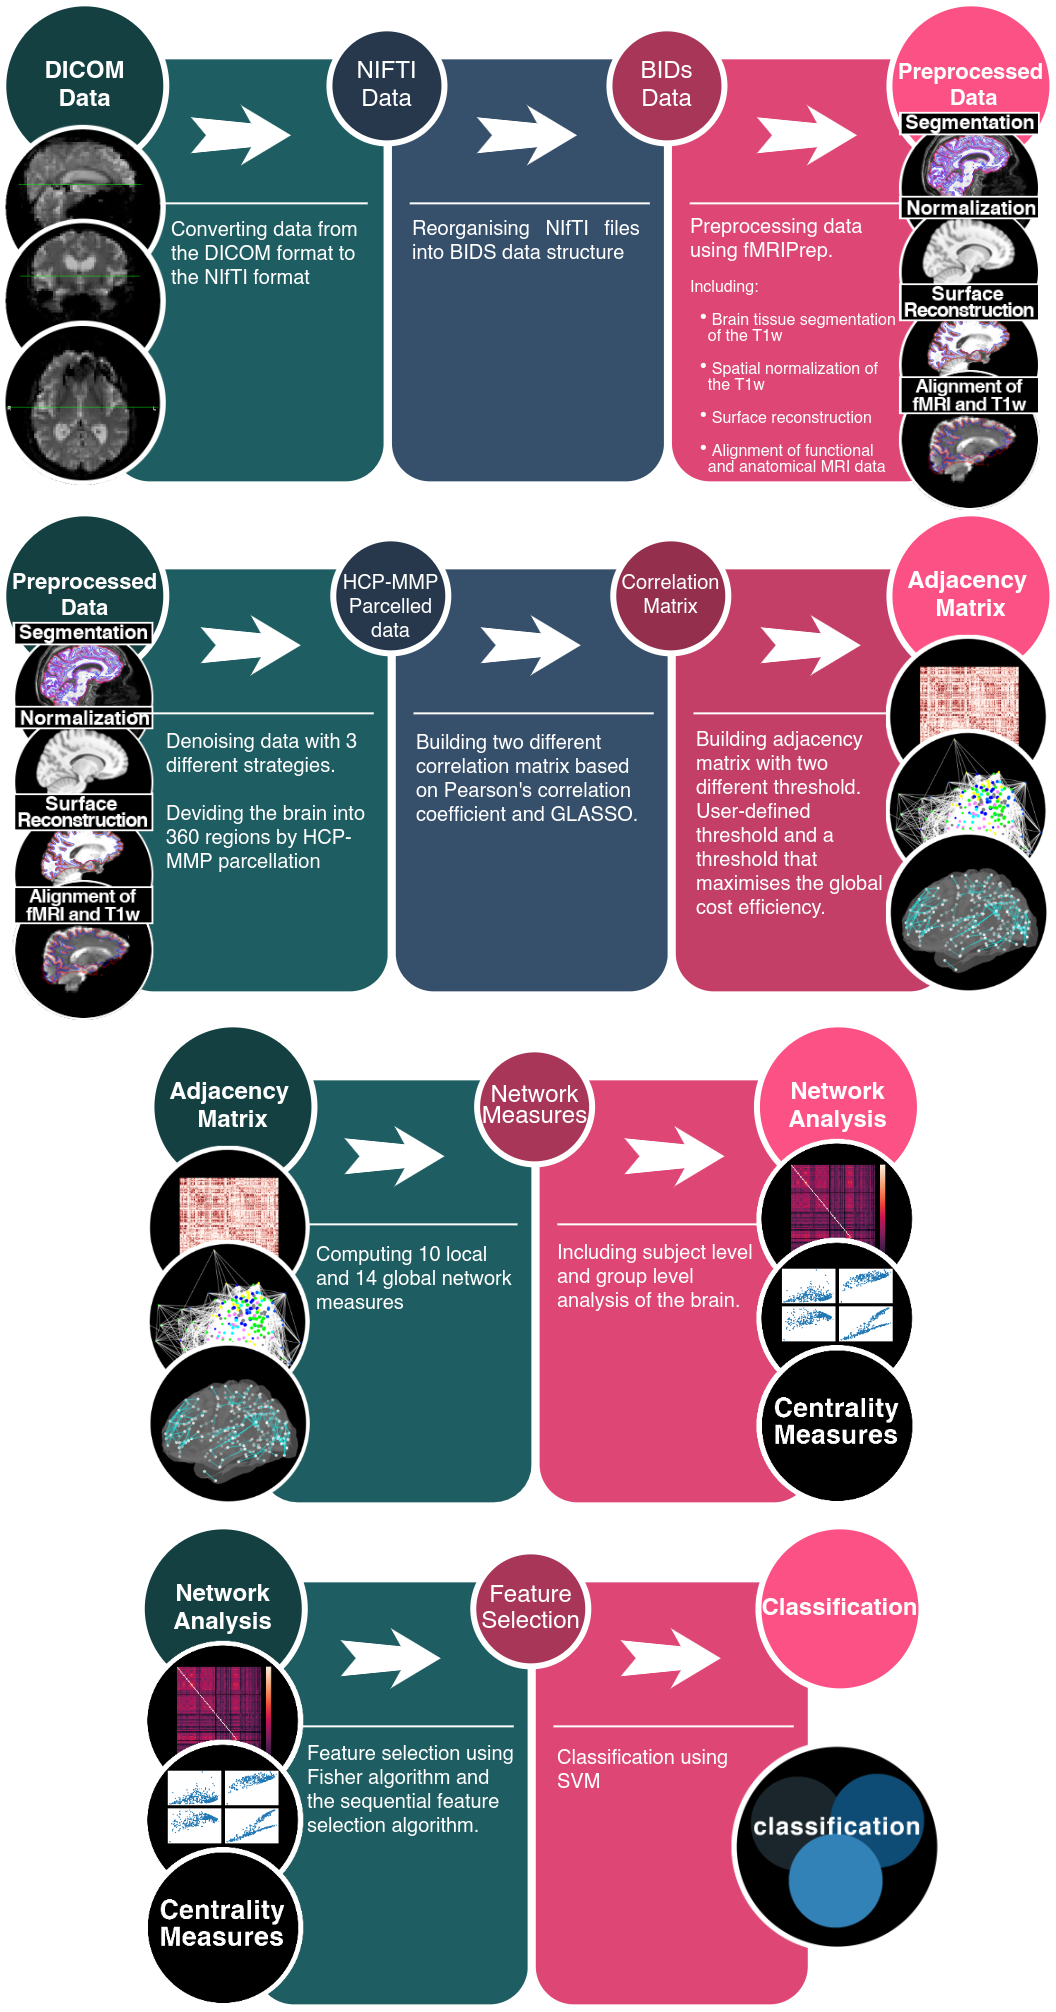
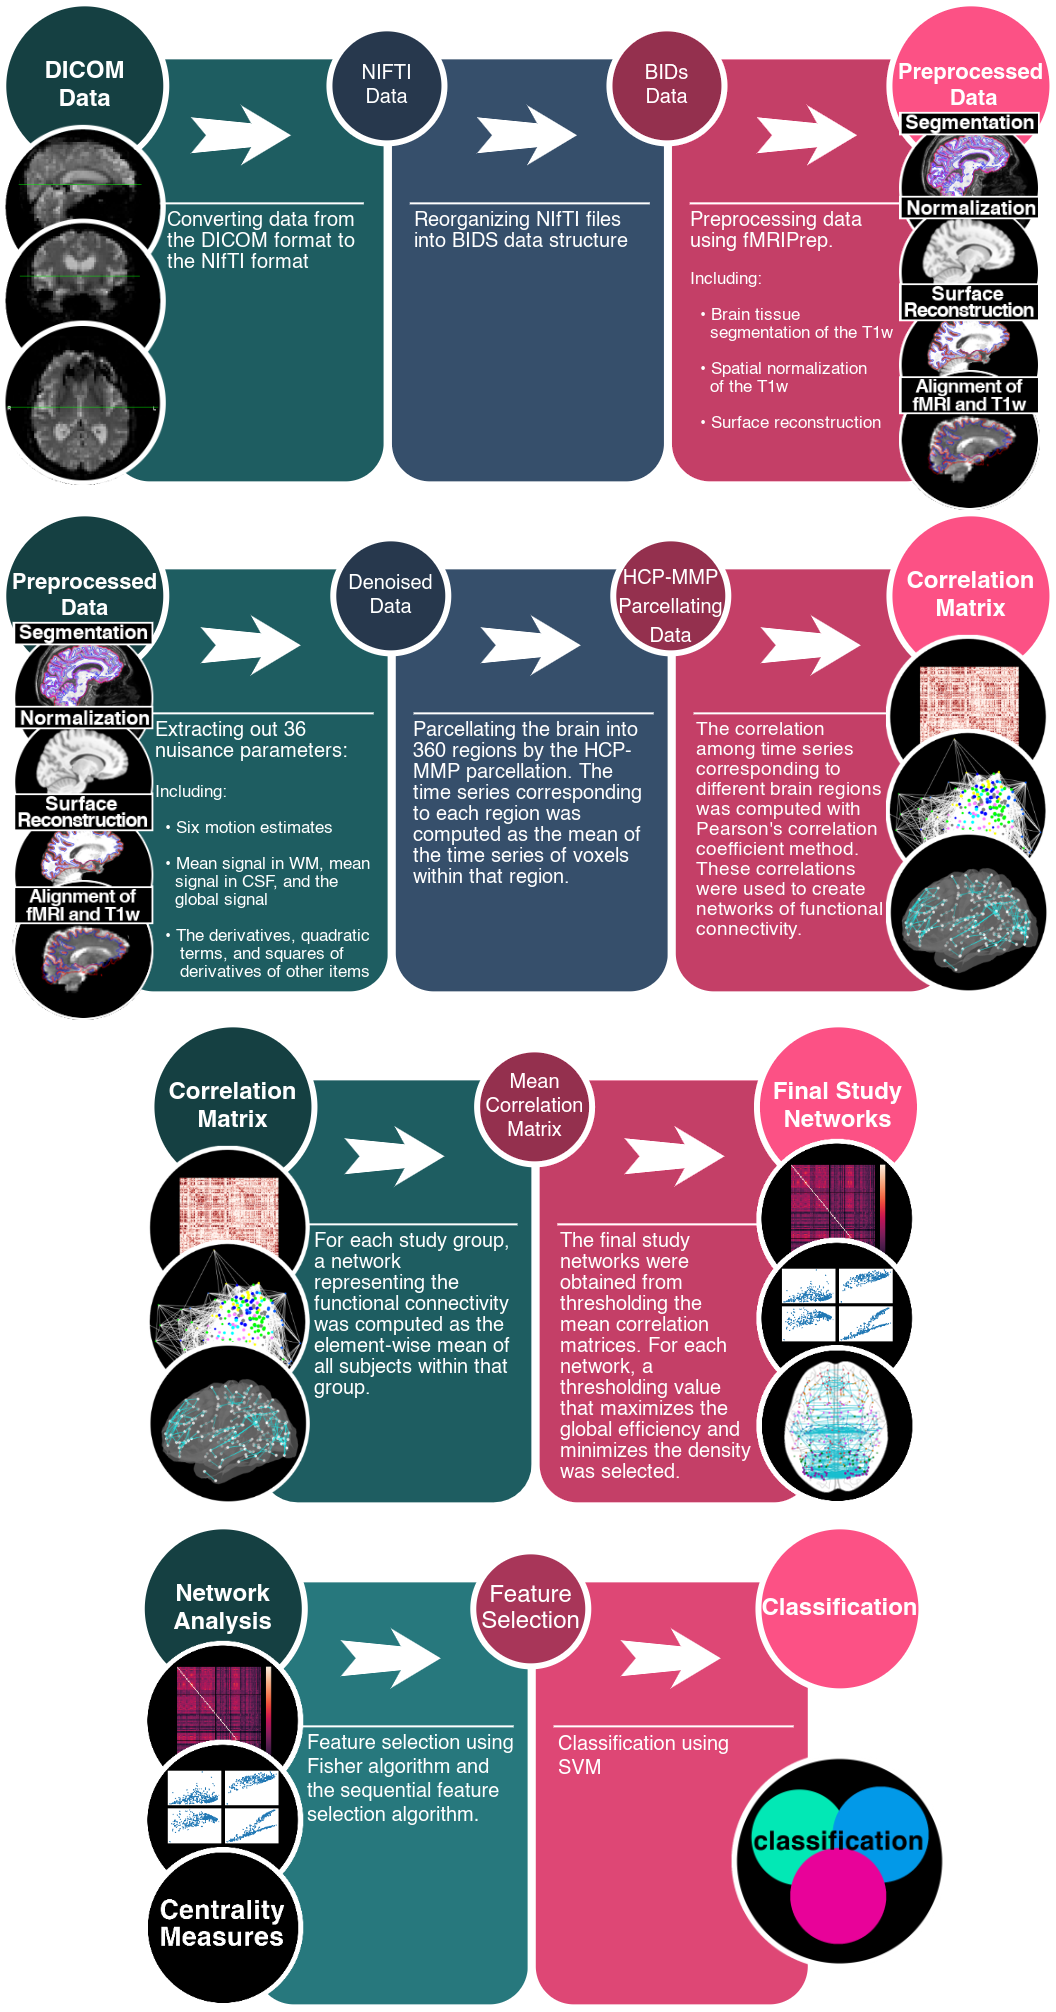
projects

diff --git a/_projects/brain_network.html b/_projects/brain_network.html
@@ -18,30 +18,27 @@ authors: Alireza Fathian
 <body>
 
 <div class="left">
-
-<div align="right"><a href="https://github.com/Alirezafathian/fmriprediction" target="_blank">[Source Code]</a></div>
 <b>Classification of Alzheimer’s disease, mild cognitive impairment, and cognitively normal patients based on the rs-fMRI data</b><br>
 <br><br>
-In this study, we are exploring the effects of Alzheimer’s disease (AD), early mild cognitive impairment (EMCI), and late mild cognitive impairment (LMCI) on functional brain connectivity. We are developing a machine learning model that enables us to classify patients with these disorders. Our goal is to develop a reliable method for diagnosing Alzheimer's disease based on fMRI data.<br>
-<br>
+In this study, we are exploring the changes in the functional brain connectivity of Alzheimer's disease (AD), early mild cognitive impairment (EMCI), and late mild cognitive impairment (LMCI). This research project has two main goals: (1) To analyze the relationship between the trend of deterioration in AD progression and the changes in the functional network topology related to the AD continuum. (2) To use the results from the complex network analysis to classify patients with these disorders and develop a reliable method for early diagnosing Alzheimer's disease based on fMRI data.
+<br><br>
 <b>Data</b><br>
 The rs-fMRI and T1w images of 96 subjects (24 subjects for each group of AD, EMCI, LMCI, and CN ) from <a href="http://adni.loni.usc.edu/" target="_blank">ADNI database</a> are analyzing in this study.<br>
 <br>
 <b>Methods</b><br>
-We are developing a general tool to perform classification and also network analysis on any given dataset including rs-fMRI and T1w images of subjects that we want to classify.
-The general pipeline of this study is shown in the figure below.
-<div class="mobileHide">
+We are developing a general tool to perform network analysis and also classification on any given dataset of rs-fMRI and T1w images. The general pipeline of this study is shown in the figure below.
+<!-- <div class="mobileHide">
 <iframe src="/ref/projects/brain_network/pipeline/pipeline_with_links.html" style="width:100%; height:1000px;" scrolling="yes" seamless></iframe>
 </div>
 <div class="mobileShow">
 <img src="/ref/projects/brain_network/pipeline/pipeline.png" alt="pipeline">
-</div>
-
+</div>-->
+<img src="/ref/projects/brain_network/pipeline/pipeline.png" alt="pipeline">
 <b>Results</b><br>
-Some of the results that we have obtainded so far are presented here<br>
+Some of the results that we have obtained so far are presented in the paper "The trend of disruption in the functional brain network topology of Alzheimer's disease." <a href= "https://alirezafathian.github.io/publications/scientific-reports-2021" target="_blank"><i class="fas fa-external-link-alt"></i></a>
+<br><br><br>
+The functional brain network of AD continuum is shown below.
 <br><br>
-Mean network of different groups of subjects<br>
-<br>
 Click here for 3D view: 
 <select name="3D View" onchange="window.open(this.options[this.selectedIndex].value);">
 	<option value="https://alirezafathian.xyz/ref/projects/brain_network/mean_networks/all.html">--</option> 

diff --git a/_projects/macaque.html b/_projects/macaque.html
@@ -21,11 +21,11 @@ authors: Alireza Fathian
 
 <b>Complex network analysis of macaque cerebral cortex network</b>
 <br><br>
-In this project, the anatomical network of the macaque's cerebral cortex was analyzed from a complex network perspective. The results showed that this network follows a hierarchical and heterogeneous structure. In more detail, this network has an assortative mixing pattern, rich-club organization, and small-world and small-woldness (six degrees of separation) phenomenon. Like many real-world complex networks, the appearance of small-world and small-woldness (six degrees of separation) phenomena in this network indicate that this network is efficient in exchanging information at both local and global scales. Considering the sparsity of this network, the trade-off between the regular and random organization of the network's connections can explain the small-woldness property. This project also assessed the relationship among different local centrality measures.
+In this project, the anatomical network of the macaque's cerebral cortex was analyzed from a complex network perspective. The results showed that this network follows a hierarchical and heterogeneous structure. In more detail, this network have assortative mixing pattern, rich-club organization, and small-world and small-woldness (six degrees of separation) phenomenon. Like many real-world complex networks, the appearance of small-world and small-woldness (six degrees of separation) phenomena in this network indicate that this network is efficient in exchanging information at both local and global scales. Considering the sparsity of this network, the trade-off between the regular and random organization of the network's connections can explain the small-woldness property. This project also assessed the relationship among different local centrality measures.
 <br><br>
 We used data from Logan Harriger et al. (2012) <a href="https://journals.plos.org/plosone/article?id=10.1371/journal.pone.0046497#s5">[Link to Paper]</a>. "The data set used in this study consisted of 242 regions and 4090 directed projections represented in binary format. No distinction was made between strong versus weak connections, or between connections that were shown to be absent versus those for which no data were available and The matrix contained no self-connections."Harriger et al. (2012)
 <br><br>
-Below are some figures from the project
+Below are some figures from the project.
 <br><br>
 <b>Frequency histograms of centrality measures:</b><br><br>
 <img src="/ref/projects/macaque/dist.png" alt="dist">

diff --git a/_projects/phylogenetic_tree.html b/_projects/phylogenetic_tree.html
@@ -25,7 +25,8 @@ authors: Alireza Fathian
 In <a href="https://github.com/Alirezafathian/phylogenetic_tree/blob/master/references/phylogenetic_tree.pdf">/references/phylogenetic_tree.pdf</a> you can find information about phylogenetic trees and neighbor joining method and see some examples of computing phylogenetic trees.<br><br>
 <b>Example:</b><br><br>
 
-<b>Input:</b> Distance Matrix:<br><br>
+<b>Input:</b><br><br>
+Distance Matrix<br><br>
 
 <b>&emsp;</b>[ <b>&emsp;</b> A<b>&nbsp;</b> B<b>&nbsp;</b> C<b>&nbsp;</b> D<b>&nbsp;</b> E<b>&nbsp;</b> F ]<br>
 <b>&emsp;</b>[ A 00 00 00 00 00 00]<br>
